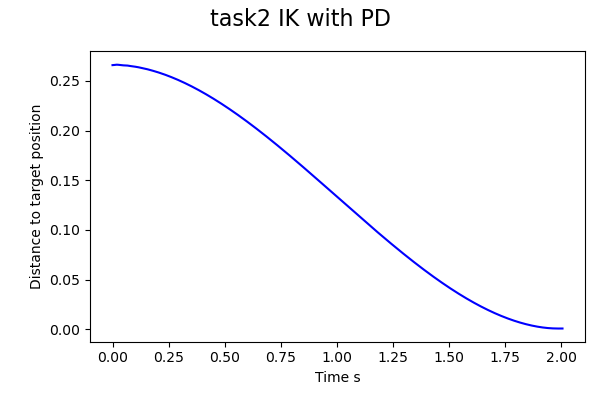
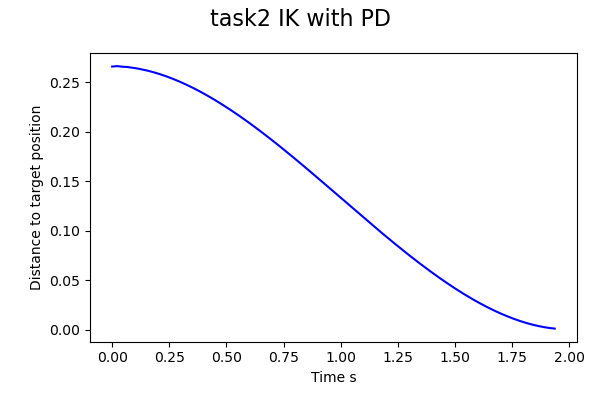
Cleaned up code from last night with comments

diff --git a/core/Pybullet_Simulation.py b/core/Pybullet_Simulation.py
@@ -604,7 +604,10 @@ class Simulation(Simulation_base):
 
         return pltTime, pltTarget, pltTorque, pltTorqueTime, pltPosition, pltVelocity
 
-    def hermiteInterpolation(self,point1, point2):
+    '''
+    Function computes hermite interpolation given 2 points, and returns a function
+    '''
+    def hermiteInterpolation(self, point1, point2):
         xs = np.array([point1, point2])
         xs.sort() #The control points Xs need to be in an increasing order.
         ys = [np.sin(x + point2) + 1  for x in xs ] #changes representation in the spline
@@ -632,40 +635,47 @@ class Simulation(Simulation_base):
 
         # Calculate the positions the end effector should go to
         endEffectorPos = self.getJointPosition(endEffector).flatten()
-        #step_angles = np.linspace(endEffectorPos, targetPosition, interpolationSteps)
-        #Just how Cubic Hermite Spline works
-        #print(targetPosition[0], endEffectorPos[0])
+        
+        # Matrix that will store the interpolated path
         step_angles= np.empty((0,3))
-        xpoints, ypoints, zpoints = None, None, None
+
+        # Initialise arrays for interpolation on x, y and z axis
+        xpoints, ypoints, zpoints = [], [], []
+        
+        # Points on all 3 axis interpolated over steps defined
         points = np.linspace(endEffectorPos, targetPosition, interpolationSteps)
+        
+        # If the end efector does not move in a certain axis, hold the points the same,
+        # Else use cubic hermit spline
+
+        # x-axis
         if(endEffectorPos[0]==targetPosition[0]):
             xpoints = points[:, 0]
         else:
             xHermite = self.hermiteInterpolation(endEffectorPos[0],targetPosition[0])
             xpoints = xHermite(points[:,0])
-        
+        # y-axis
         if(endEffectorPos[1]==targetPosition[1]):
             ypoints = points[:,1]
         else:
             yHermite = self.hermiteInterpolation(endEffectorPos[1],targetPosition[1])
             ypoints = yHermite(points[:,1])
+        # z-axis
         if(endEffectorPos[2]==targetPosition[2]):
             zpoints = points[:,2]
         else:
             zHermite = self.hermiteInterpolation(endEffectorPos[2],targetPosition[2])
             zpoints = zHermite(points[:,2])
-        points = points.T
-        points[0] = xpoints
-        points[1] = ypoints
-        points[2] = zpoints
-        points = points.T
-        step_angles = np.vstack([step_angles,points[0, :]]) #pads the initial position in the target to ensure that zero velocity condition actually exists at thbeginning
-        step_angles = np.vstack([step_angles,points[0, :]])
-        step_angles = np.vstack([step_angles,points])
-    #pads final "target" position at the end to ensure that the difference with targer position is VERY negligible, and also helps reaching (tending towards) a 0 velocity state
-        for _ in range(4):
-            step_angles = np.vstack([step_angles,points[-1, :]])
         
+        # Fill in the matrix with interpolation steps
+        step_angles = np.hstack((np.c_[xpoints], np.c_[ypoints], np.c_[zpoints])) 
+        step_angles = np.vstack([step_angles[0], step_angles])
+        step_angles = np.vstack([step_angles[0], step_angles])
+  
+        #pads final "target" position at the end to ensure that the difference with targer position is VERY negligible, and also helps reaching (tending towards) a 0 velocity state
+        for _ in range(4):
+            step_angles = np.vstack([step_angles, step_angles[-1]])
+
         # To store initial revolut position of each step
         init_q = []
         # Loop through the affected links
@@ -675,12 +685,15 @@ class Simulation(Simulation_base):
 
         # Compute the initial distance to target
         distanceToTaget = np.linalg.norm(endEffectorPos - targetPosition)
-        pltDistance = [distanceToTaget] # Take z axis here
+        pltDistance = [distanceToTaget] 
         pltTime = [0]
         
+        # Dictionary stores revolut angle velocity histories for each joint
         jointVelHist = {}
         for joint in path:
             jointVelHist[joint] = [self.getJointPos(joint)]
+        
+        # Dictionary stores the approximated real joint revolut velocity
         jointVelReal = {}
         for joint in path:
             jointVelReal[joint] = 0
@@ -690,11 +703,15 @@ class Simulation(Simulation_base):
 
             # Return revolut angles for the next one interpolation step
             nextStep = self.inverseKinematics(endEffector, step_angles[i], orientation, threshold)
+            
             # Update target joint positions with next step to shared dictionary
             for j, joint in enumerate(path):
-                jointVelHist[joint] = np.append(jointVelHist[joint], self.getJointPos(joint))
                 self.jointTargetPos[joint] = nextStep[j]
+
+                # Calculate the approximated revolut angle
+                jointVelHist[joint] = np.append(jointVelHist[joint], self.getJointPos(joint))
                 jointVelReal[joint] =  (jointVelHist[joint][i]-jointVelHist[joint][i-1])/self.dt
+            
             # One step in the simulation
             self.tick(path,jointVelReal)
 
@@ -709,10 +726,10 @@ class Simulation(Simulation_base):
             # Check if we are already within accuracy threshold
             err = np.absolute(endEffectorPos - targetPosition)
             err_res = err < threshold
-            '''if err_res.all():
+            if err_res.all():
                 print('Target reached within threshold')
                 print('iteration', i, 'of', interpolationSteps)
-                break'''
+                break
 
         # Return plotting
         pltTime = np.array(pltTime)
@@ -746,7 +763,6 @@ class Simulation(Simulation_base):
             # TODO: obtain torque from PD controller
             torque = self.calculateTorque(self.jointTargetPos[joint], self.getJointPos(joint), (self.jointTargetPos[joint]-self.getJointPos(joint))/self.dt, realVelDict[joint], 0, kp, ki, kd)
             ### ... to here ###
-            print("VELO DIFF: ",self.getJointVel(joint)-realVelDict[joint])
             self.p.setJointMotorControl2(
                 bodyIndex=self.robot,
                 jointIndex=self.jointIds[joint],

diff --git a/task2/task2_MovePD.py b/task2/task2_MovePD.py
@@ -47,16 +47,15 @@ robotConfigs = {
 sim = Simulation(pybulletConfigs, robotConfigs)
 
 endEffector = "LARM_JOINT5"
-print('Initial Position')
-print(sim.getJointPosition(endEffector).flatten())
+print('Initial Position: {}'.format(sim.getJointPosition(endEffector).flatten()))
 targetPosition = np.array([0.6, 0.23,   1.0045]) # y makes arm move left and right, x forward and back
 print('Target Position: {}'.format(targetPosition))
 
 # Example code. Feel free to modify
 pltTime, pltEFPosition = sim.move_with_PD(endEffector, targetPosition, speed=0.01, orientation=None, threshold=1e-3, debug=False, verbose=False)
 
-print('Simulation Finished, end effecttor position: ')
-print(sim.getJointPosition(endEffector).flatten())
+print('Simulation Finished, end effecttor position: {}'.format(sim.getJointPosition(endEffector).flatten()))
+print('Difference : {}'.format(targetPosition - sim.getJointPosition(endEffector).flatten()))
 
 # Now plot some graphs
 task2_figure_name = "task2_kinematics.png"
